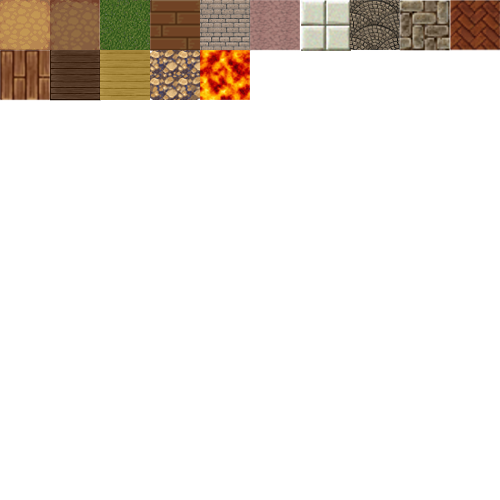
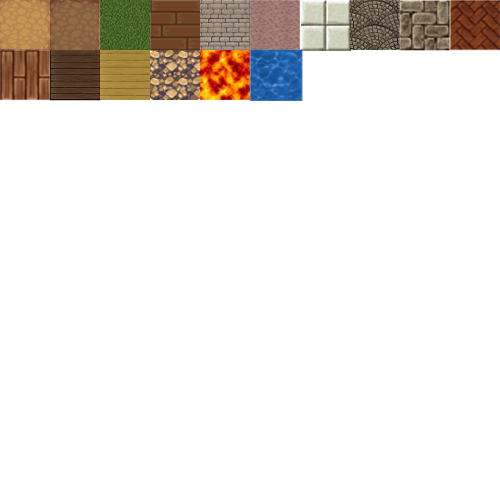
Added water pools

Changed region(s): [[0.48, 0.09, 0.63, 0.21]]

diff --git a/Divine Right/Objects/Graphics/SpriteManager.cs b/Divine Right/Objects/Graphics/SpriteManager.cs
@@ -79,6 +79,7 @@ namespace DRObjects.Graphics
             localSprites[(int)LocalSpriteName.WOOD_TILE_5] = new SpriteData(TILES, new Rectangle(100, 50, 50, 50));
             localSprites[(int)LocalSpriteName.DUNGEON_TILE] = new SpriteData(TILES, new Rectangle(150, 50, 50, 50));
             localSprites[(int)LocalSpriteName.LAVA_TILE] = new SpriteData(TILES, new Rectangle(200, 50, 50, 50));
+            localSprites[(int)LocalSpriteName.WATER_TILE] = new SpriteData(TILES, new Rectangle(250, 50, 50, 50));
             localSprites[(int)LocalSpriteName.NONE] = new SpriteData(TILES, new Rectangle(450, 450, 1, 1));
 
             //todo: dungeons

diff --git a/Divine Right/Objects/Graphics/LocalSpriteName.cs b/Divine Right/Objects/Graphics/LocalSpriteName.cs
@@ -23,6 +23,7 @@ namespace DRObjects.Graphics
         WOOD_TILE_5,
         DUNGEON_TILE,
         LAVA_TILE,
+        WATER_TILE,
         NONE,
 
         //Town Indoor Items
